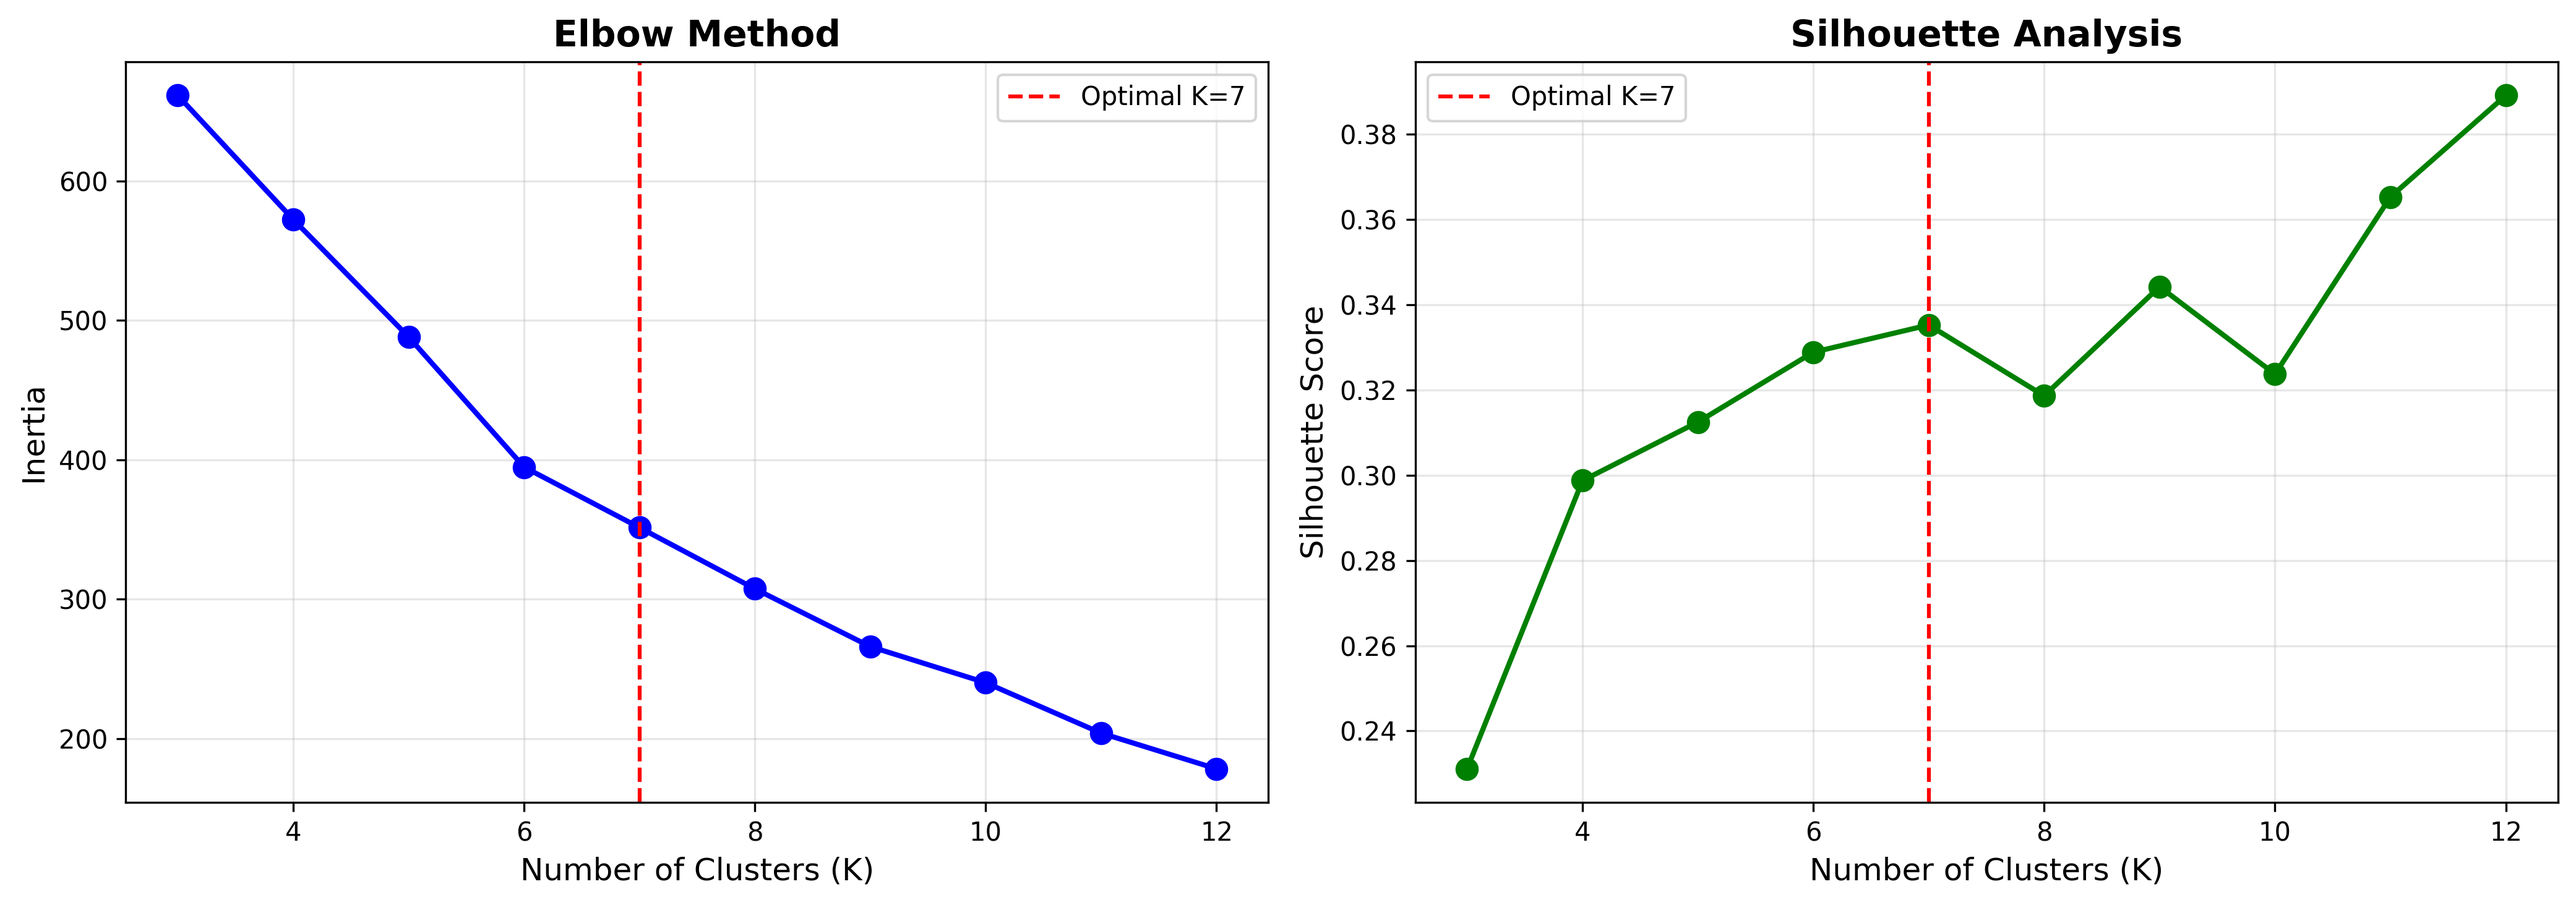
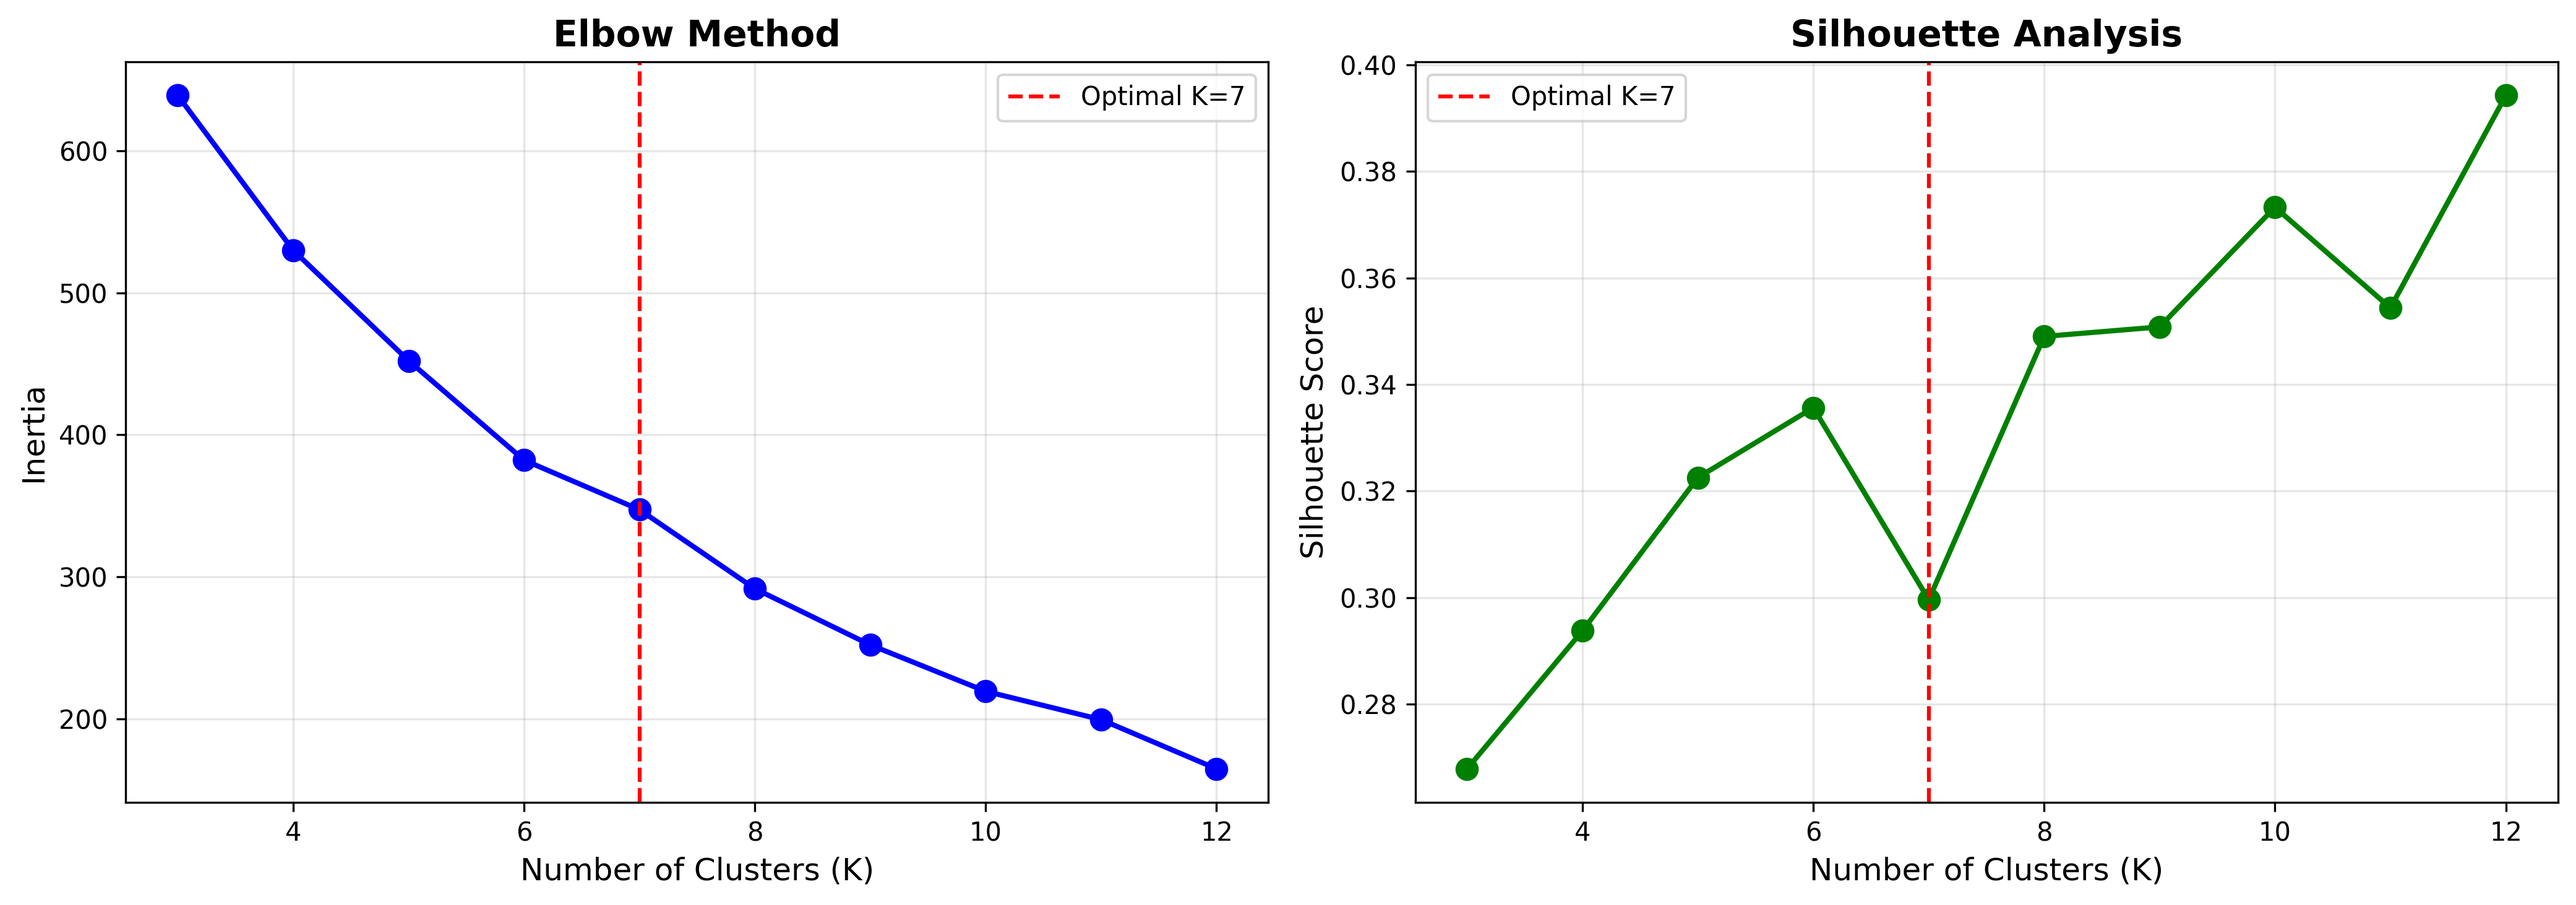
Fix critical data leakage: exclude forward-looking features
CRITICAL FIX: Removed forward-looking features from training data
- forward_returns
- risk_free_rate
- market_forward_excess_returns

This invalidates previous Cluster 0 training results.
All clusters must be retrained with clean data (94 features).

New clustering results:
- 94 features (down from 97)
- 7 clusters (optimal K unchanged)
- All leakage features removed

🤖 Generated with [Claude Code](https://claude.com/claude-code)

diff --git a/TinyRecursiveModels/train/cluster_features.py b/TinyRecursiveModels/train/cluster_features.py
@@ -40,10 +40,18 @@ def get_feature_columns(df: pd.DataFrame) -> list:
         List of feature column names
     """
     target_cols = ['target', 'target_2d', 'target_5d']
-    exclude_cols = target_cols + ['date_id']  # Exclude date_id as it's a time index
+
+    # CRITICAL: Exclude forward-looking features to prevent data leakage
+    leakage_cols = [
+        'forward_returns',
+        'risk_free_rate',
+        'market_forward_excess_returns'
+    ]
+
+    exclude_cols = target_cols + ['date_id'] + leakage_cols
     all_cols = df.columns.tolist()
 
-    # Remove target columns, date_id, and non-numeric columns
+    # Remove target columns, date_id, leakage features, and non-numeric columns
     feature_cols = [
         col for col in all_cols
         if col not in exclude_cols and df[col].dtype in ['float64', 'int64']
